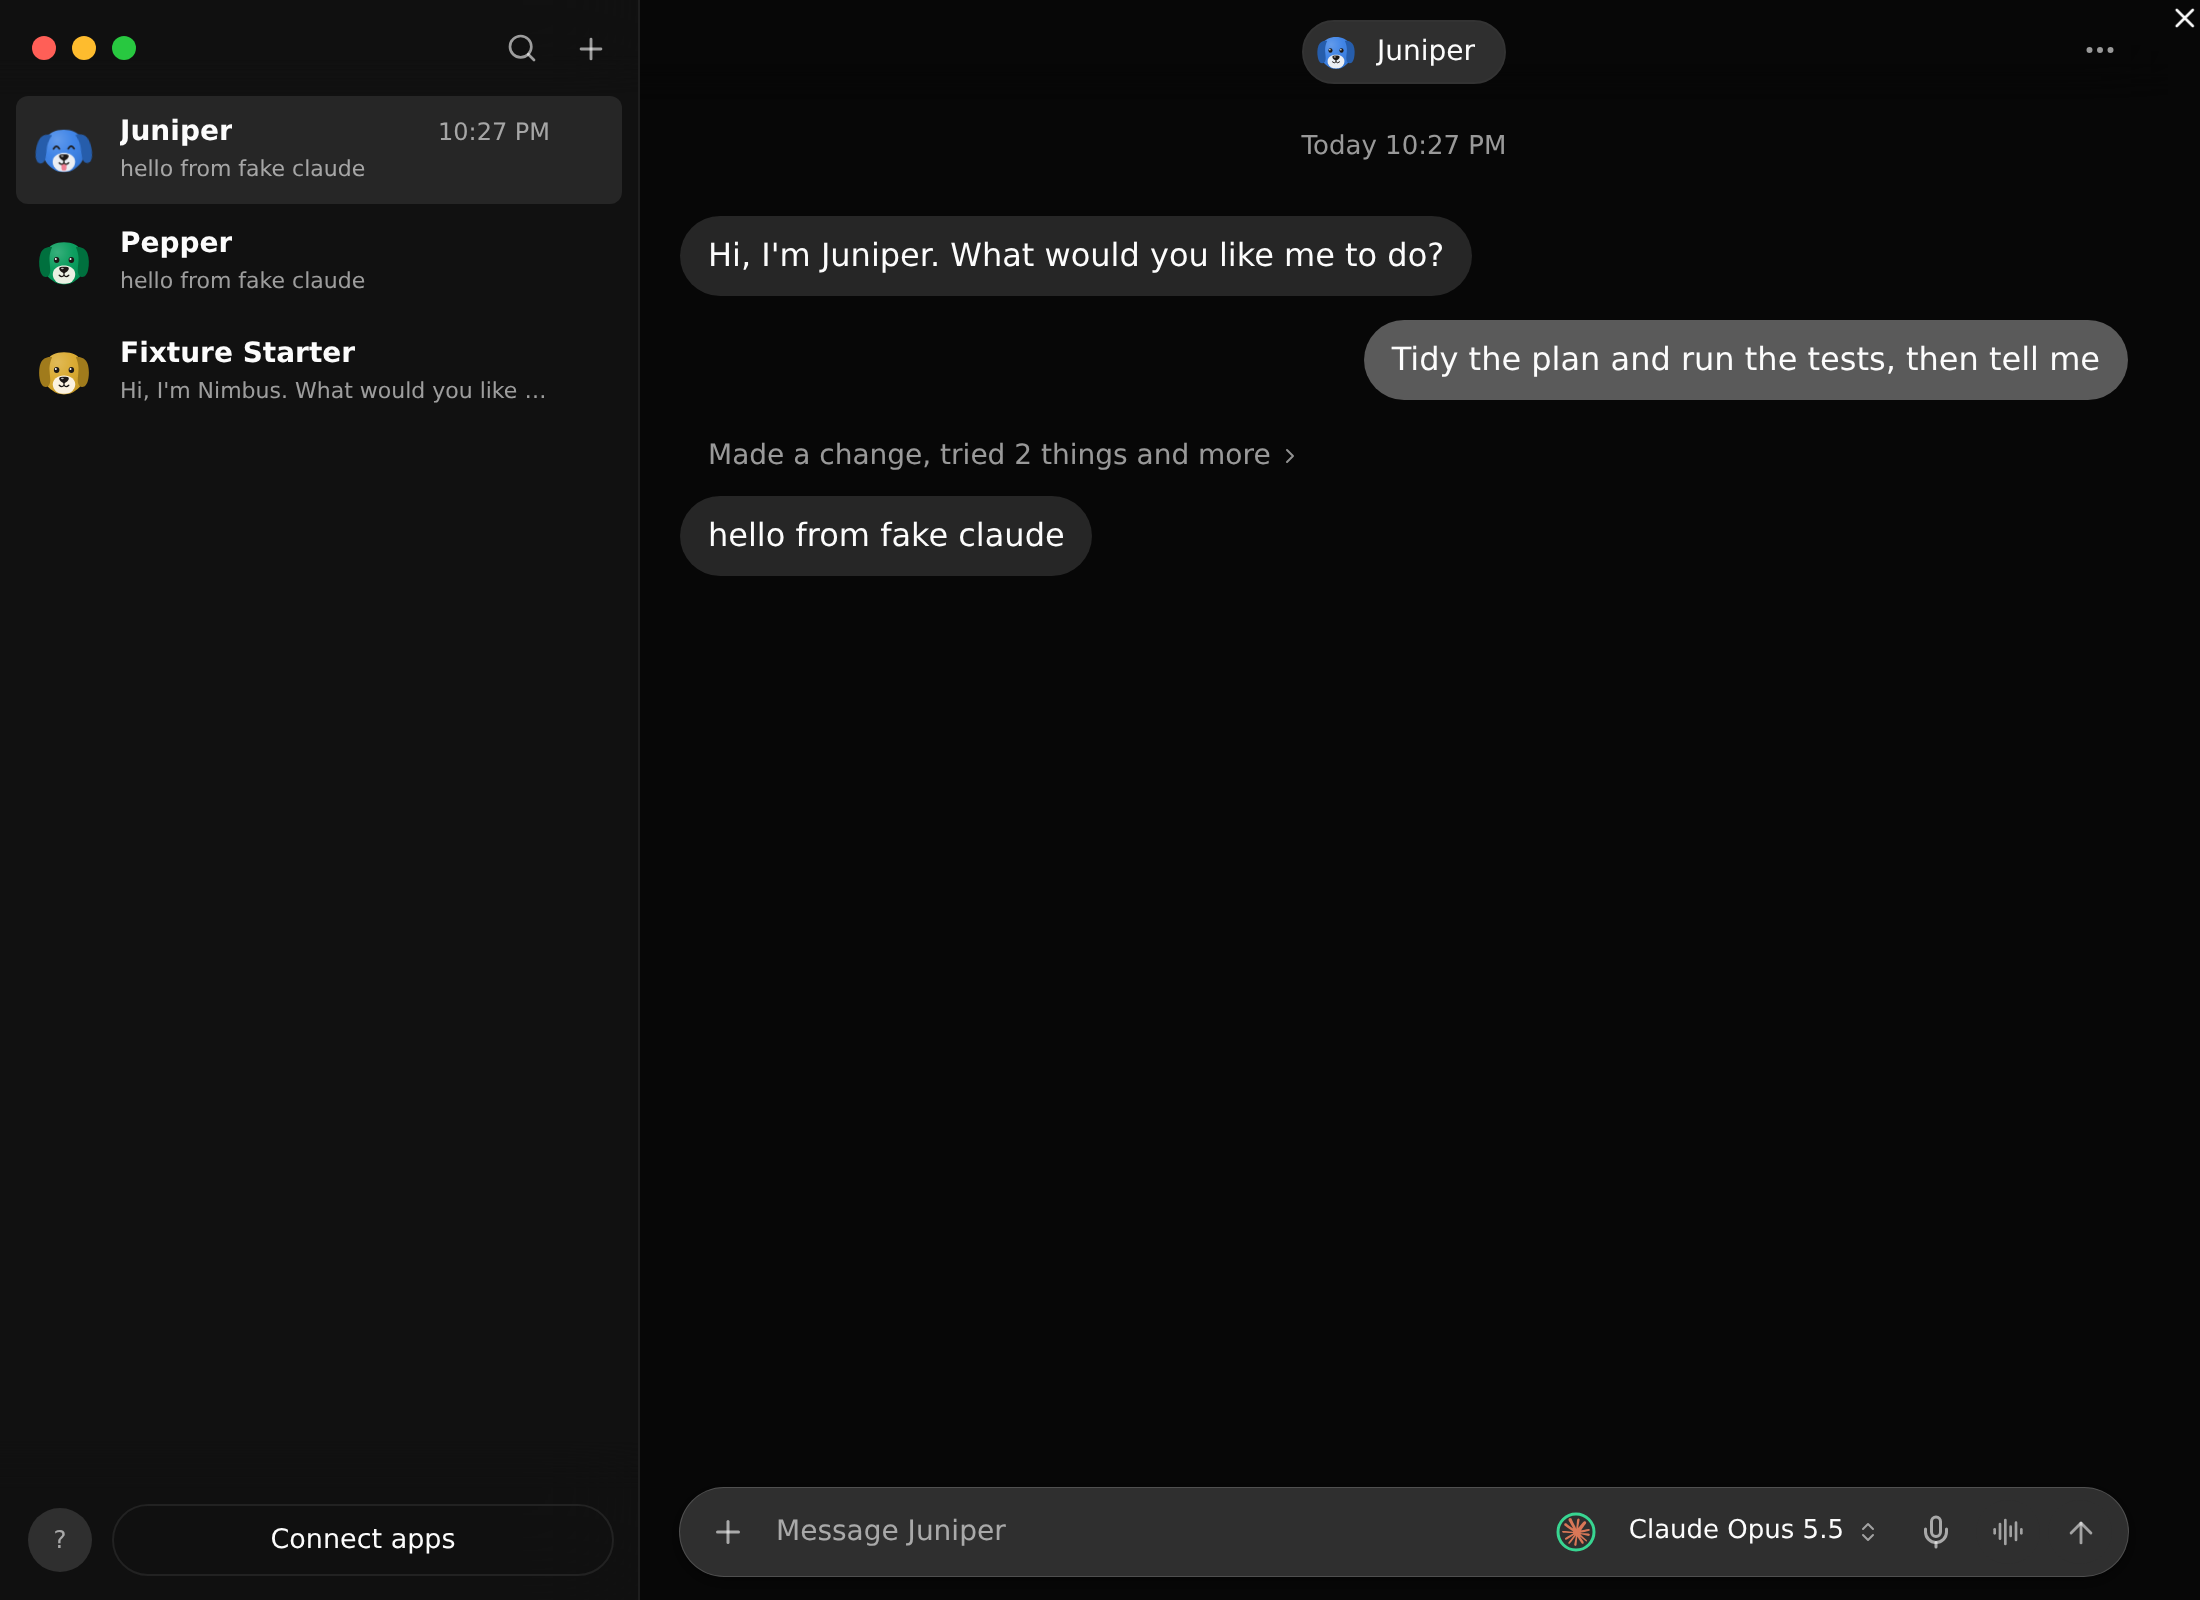
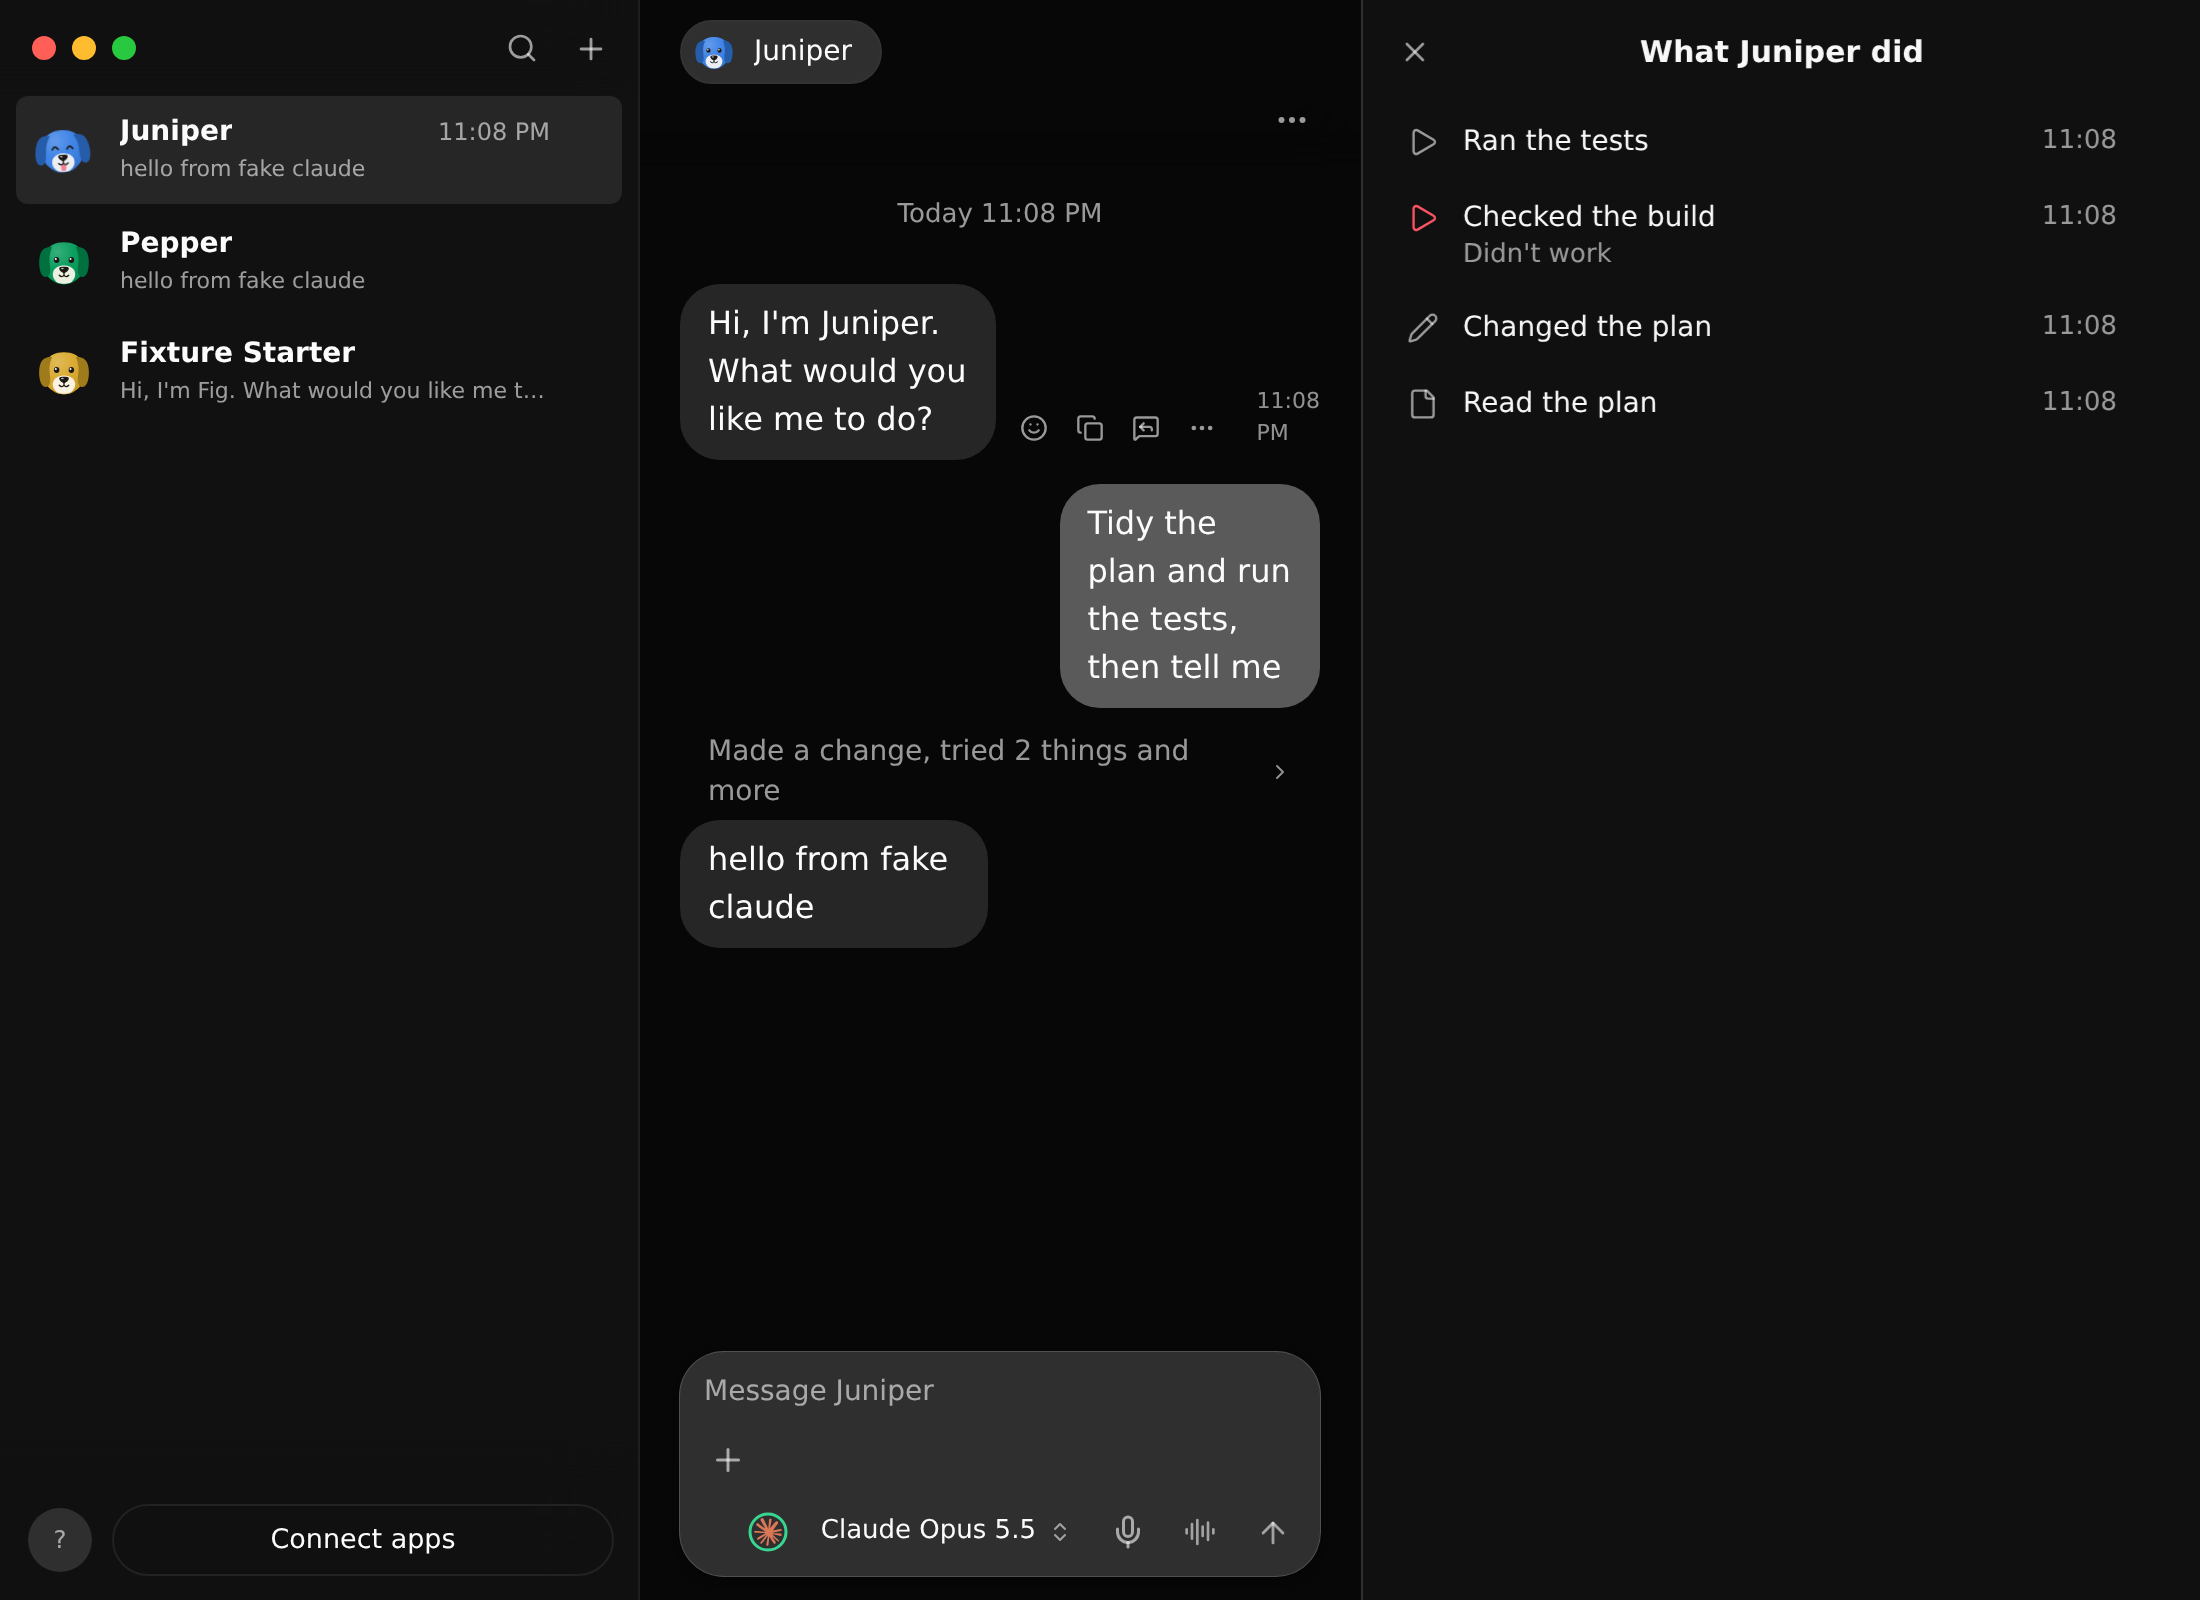
Captures for the desk-chat lane at b206606, with desk-panel's panel

diff --git a/README.md b/README.md
@@ -1,4 +1,4 @@
-Captures for the desk-chat lane (parity/desk-chat), made by scripts/testing/parity-chat-shots.ts at 45a1610 on a Linux cloud computer, 1100x800 at scale 2, Daylight and Midnight, on the isolated fixture with a scripted turn (a Read, an Edit, a failing Bash and a slow Bash). Not for merging.
+Captures for the desk-chat lane (parity/desk-chat), made by scripts/testing/parity-chat-shots.ts at b206606 with desk-panel merged (the first set, at 45a1610, is the previous commit) on a Linux cloud computer, 1100x800 at scale 2, Daylight and Midnight, on the isolated fixture with a scripted turn (a Read, an Edit, a failing Bash and a slow Bash). Not for merging.
 
 - during-1100-*: the working line while the slow step runs
 - during-panel-1100-*: the panel opened from the working line
